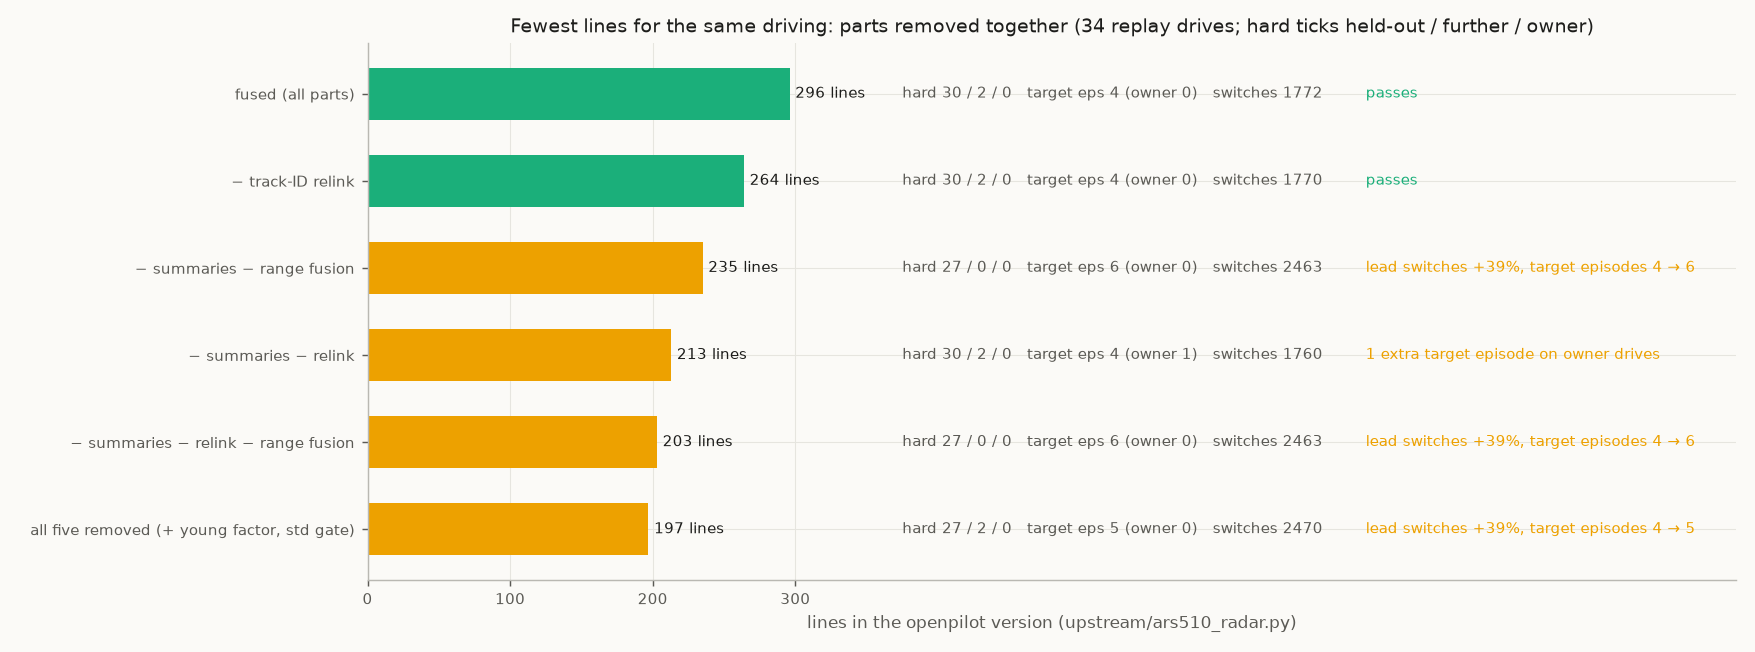
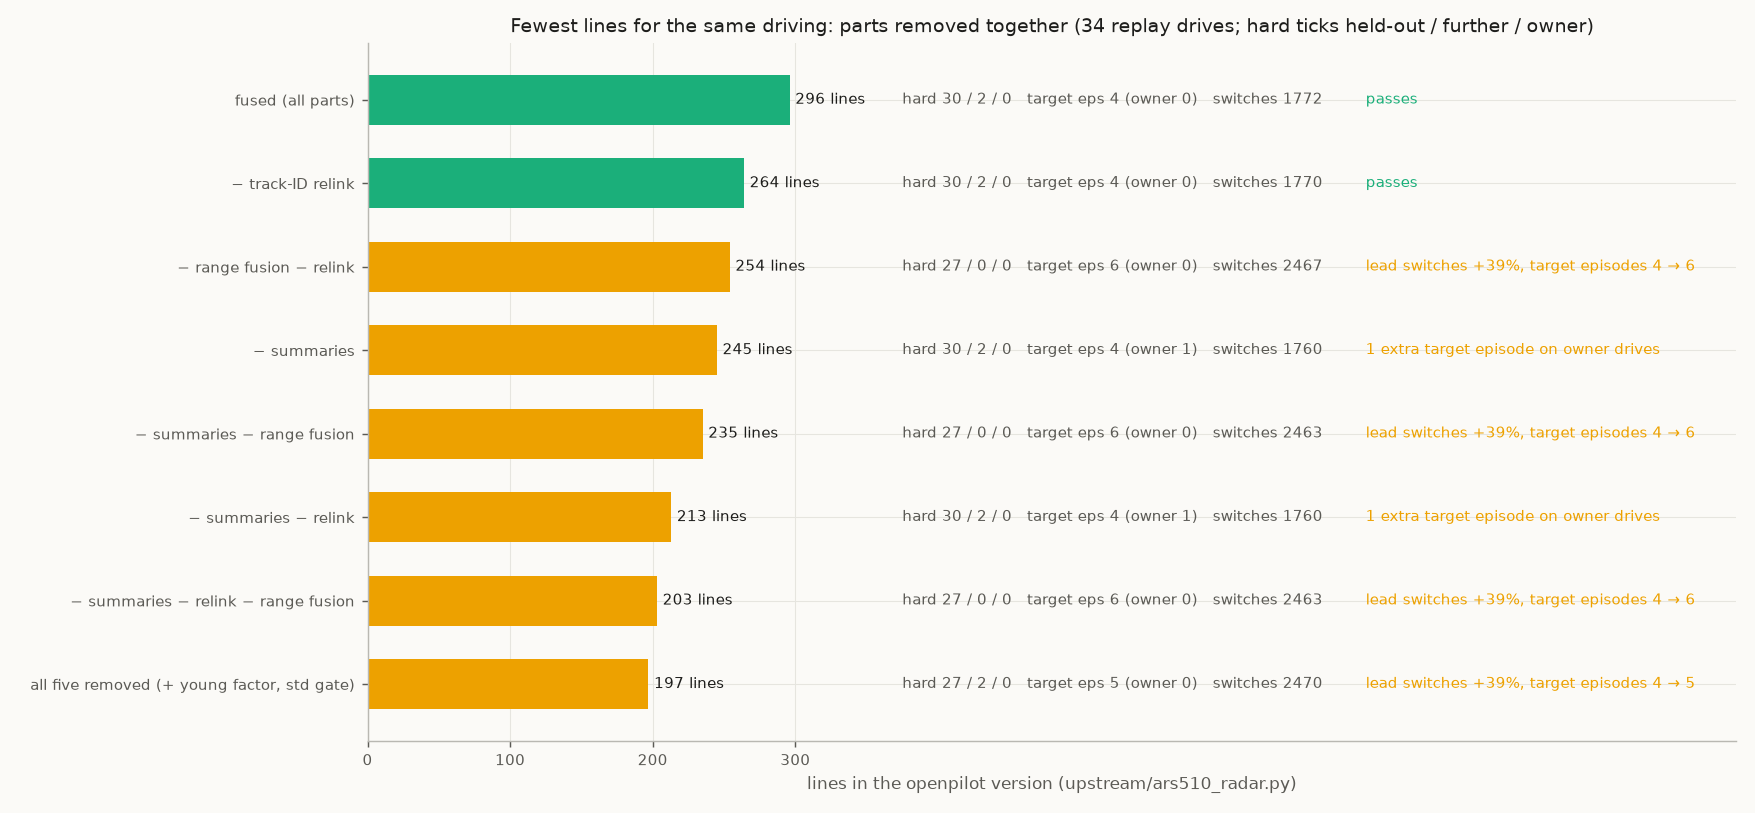
Combinations: add no-summaries (one owner episode: summaries stay) and no-range-fusion-no-relink

diff --git a/tools/make_fused_figures.py b/tools/make_fused_figures.py
@@ -279,10 +279,12 @@ def kalman_ablation() -> None:
 def kalman_combinations() -> None:
     """Each tested version of the filter: lines in the openpilot file, its driving numbers, pass or fail (34 drives)."""
     C = json.loads((REPO / "data" / "analysis" / "summaries" / "fused_filter.json").read_text())["combinations_34_drives"]
-    names = {"fused": "fused (all parts)", "no_L": "− track-ID relink", "no_SL": "− summaries − relink",
+    names = {"fused": "fused (all parts)", "no_L": "− track-ID relink", "no_S": "− summaries", "no_RL": "− range fusion − relink",
+             "no_SL": "− summaries − relink",
              "no_SR": "− summaries − range fusion", "no_SRL": "− summaries − relink − range fusion",
              "no_SRLYG": "all five removed (+ young factor, std gate)"}
-    why = {"no_SL": "1 extra target episode on owner drives", "no_SR": "lead switches +39%, target episodes 4 → 6",
+    why = {"no_SL": "1 extra target episode on owner drives", "no_S": "1 extra target episode on owner drives",
+           "no_RL": "lead switches +39%, target episodes 4 → 6", "no_SR": "lead switches +39%, target episodes 4 → 6",
            "no_SRL": "lead switches +39%, target episodes 4 → 6", "no_SRLYG": "lead switches +39%, target episodes 4 → 5"}
     rows = sorted(((names[k], k, C[k]) for k in names if k in C), key=lambda r: -r[2]["openpilot_file_lines"])
     fig, ax = plt.subplots(figsize=(13.5, 0.62 * len(rows) + 1.3))

diff --git a/docs/12_kalman_filter.md b/docs/12_kalman_filter.md
@@ -126,8 +126,8 @@ on the same 34 drives. The rule for "same driving as `fused`" was fixed before t
 ![fewest lines for the same driving](img/analysis/kalman_combinations.png)
 
 - **The track-ID relink is free:** removing it changes nothing.
-- **The summaries matter only at the margin:** without them (and relink), one mild extra slowdown appears on the owner
-  drives (−1.1 m/s² for 0.5 s at 103 m), which fails the rule.
+- **The summaries matter only at the margin:** without them (with or without relink), one mild extra slowdown appears
+  on the owner drives (−1.1 m/s² for 0.5 s at 103 m), which fails the rule.
 - **Range fusion keeps the lead stable:** every version without it flips between radar and vision leads about 39 % more
   often.
 - **The young-track factor and the speed-std gate cost about 5 lines** and still help in the barest version.
